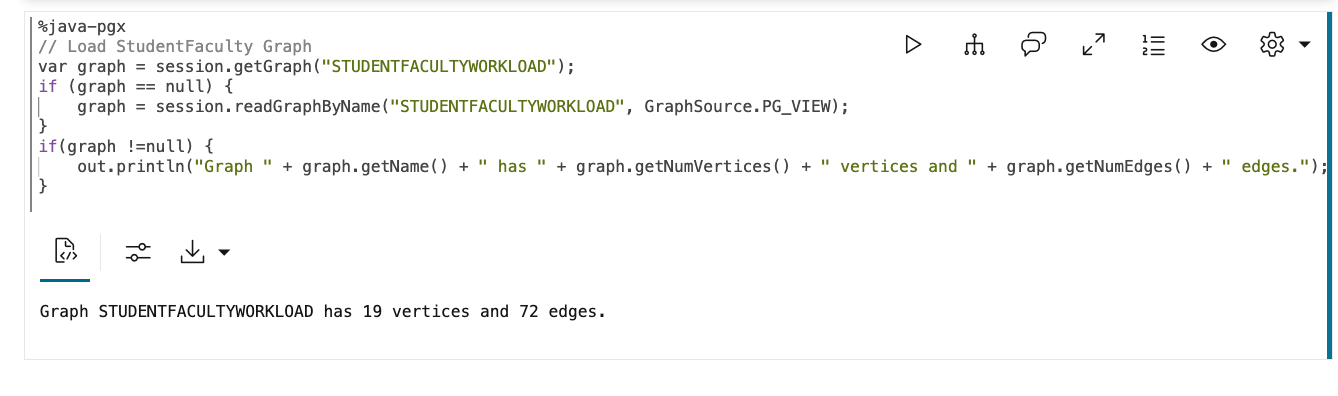
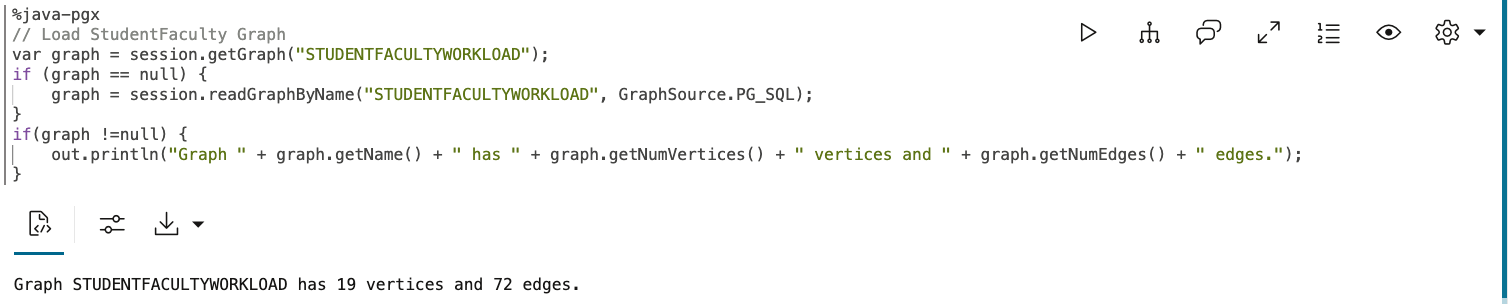
Update Virtual PDB to a realistic scenario

diff --git a/data-refactoring-advisor/hands-on-lab/virtualpdb/README.md b/data-refactoring-advisor/hands-on-lab/virtualpdb/README.md
@@ -33,16 +33,17 @@ Here are some key use cases and benefits of JSON Duality Views:
 These JSON Duality Views can define a new API set (`Virtual PDB`) that can be accessed only by members of the service team.
 
 
-## Write an API
+## Course Catalog Service
 
 Staying with the CourseCatalog Service
 
-Here is an API, a JSON Duality view that gets all courses for a department
+Here is an API, a JSON Duality view that gets all courses for a department. 
+It is a read only view. It is created by the owner of the `SCHEMA`, most likely the Database Administrator. In this case, the College user.
 
 ```
 CREATE OR REPLACE JSON RELATIONAL DUALITY VIEW department_courses_view AS
 SELECT JSON {
-  ‘_id’: d.DepartmentID,
+  '_id': d.DepartmentID,
   'DepartmentName': d.DepartmentName,
   'CollegeID': d.CollegeID,
   'Courses': (
@@ -60,30 +61,129 @@ SELECT JSON {
     WHERE c.DepartmentID = d.DepartmentID
   )
 }
-FROM Departments d WITH INSERT UPDATE DELETE;
+FROM Departments d;
 ```
 
 A collection of views like these, oriented towards the course catalog tables, would become the API for the  course catalog service team.  
 
-View definition would be controlled by Admin therefore having control of the surface area exposed to each service team.
-
-
 ## Enforcing Isolation
 
-Use Standard Role Based Access Control.
+View definition would be controlled by Admin therefore having control of the surface area exposed to each service team.
+
+Using Standard Role Based Access Control, the Database Adninistrator would define a service team role and then grant permission to work with JSON Duality Views.  The API surface area would be the set of views exposed by the DBA.
+
+The role `CourseCatalogDeveloper` would be associated with all the developers on the service team thereby enforcing isolation.
 
 ```
+### As ADMIN
 ### Create Service Team Role
 CREATE ROLE CourseCatalogDeveloper
 
 ### Grant the SELECTs to that ROLE
-GRANT SELECT ON Courses to CourseCatalogDeveloper
-GRANT SELECT ON Departments to CourseCatalogDeveloper
+GRANT SELECT ON GRANT SELECT ON College.department_courses_view to CourseCatalogDeveloper
 
-### then grant the role to the user
-GRANT CourseCatalogDeveloper TO user_name;
+### then grant the role to the user coursedev
+GRANT CourseCatalogDeveloper TO coursedev;
 ```
 
+Now, the coursedev user can attach to the database and run queries on the view
+
+## Running Read Only Queries using the JSON Duality View 
+
+User `COURSEDEV` has Role of `CourseCatalogDeveloper` and can now access the JSON Duality View department_courses_view.
+
+Get all departments with their courses:
+
+Note the schema prefix
+
+![all_dept_courses](../images/getalldeptcourses.png)
+
+
+Get a specific department by ID:
+
+![dept_by_id](../images/getdeptbyid.png)
+
+Find departments by name:
+
+![dept_by_name](../images/getdeptbyname.png)
+
+Find courses with more than 3 credits:
+
+![dept_by_name](../images/bycredits3.png)
+
+
+## Student Service
+
+Another community defined was StudentInfo comprised of the following tables
+
+- Addresses
+- Transcripts
+- StudentFinances
+- Students
+- StudentCourses
+
+This time, create a JSON Duality View that allows insert, update and delete on the Students table
+
+Again, create the view as the owner of the schema `College`
+
+```
+CREATE OR REPLACE JSON RELATIONAL DUALITY VIEW students_view AS
+  SELECT json {
+    '_id'    : s.StudentID,
+    'FirstName'    : s.FirstName,
+    'LastName'     : s.LastName,
+    'DateOfBirth'  : s.DateOfBirth,
+    'Gender'       : s.Gender,
+    'Email'        : s.Email,
+    'PhoneNumber'  : s.PhoneNumber
+  }
+  FROM Students s WITH INSERT UPDATE DELETE;
+```
+
+Appending the view with `WITH INSERT UPDATE DELETE` is what makes this view writable
+
+
+## Enforcing Isolation
+
+Using Standard Role Based Access Control, the Database Adninistrator would define a service team role and then grant permission to work with JSON Duality Views.  The API surface area would be the set of views exposed by the DBA.
+
+The role `StudentDeveloper` would be associated with all the developers on the service team thereby enforcing isolation.
+
+```
+### As ADMIN
+### Create Service Team Role
+CREATE ROLE StudentDeveloper;
+
+### Grant the SELECTs to that ROLE
+GRANT SELECT ON College.students_view to StudentDeveloper
+
+## Grant Writable Perms
+GRANT INSERT ON College.students_view to StudentDeveloper
+GRANT UPDATE ON College.students_view to StudentDeveloper
+GRANT DELETE ON College.students_view to StudentDeveloper
+
+### then grant the role to the user studentdev
+GRANT StudentDeveloper TO studentdev;
+```
+Now, the studentdev user can attach to the database and run CRUD operations on the view
+
+## Running CRUD Queries using the JSON Duality View 
+
+Insert a New Student:
+
+![insert_student](../images/insertstudent.png)
+
+Update a Student:
+
+![update_student](../images/updtstudent.png)
+
+Delete a Student:
+
+![delete_student](../images/deletestudent.png)
+
+Try to access a Course View:
+
+![stay_in_your_lane](../images/permerror.png)
 
 
 ## Summary

diff --git a/data-refactoring-advisor/hands-on-lab/community-detection/README.md b/data-refactoring-advisor/hands-on-lab/community-detection/README.md
@@ -33,7 +33,7 @@ in the picture below, select java-pgx as the interpreter used in a new paragraph
 // Load StudentFaculty Graph
 var graph = session.getGraph("STUDENTFACULTY");
 if (graph == null) {
-    graph = session.readGraphByName("STUDENTFACULTY", GraphSource.PG_VIEW);
+    graph = session.readGraphByName("STUDENTFACULTY", GraphSource.PG_SQL);
 }
 if(graph !=null) {
     out.println("Graph " + graph.getName() + " has " + graph.getNumVertices() + " vertices and " + graph.getNumEdges() + " edges.");
